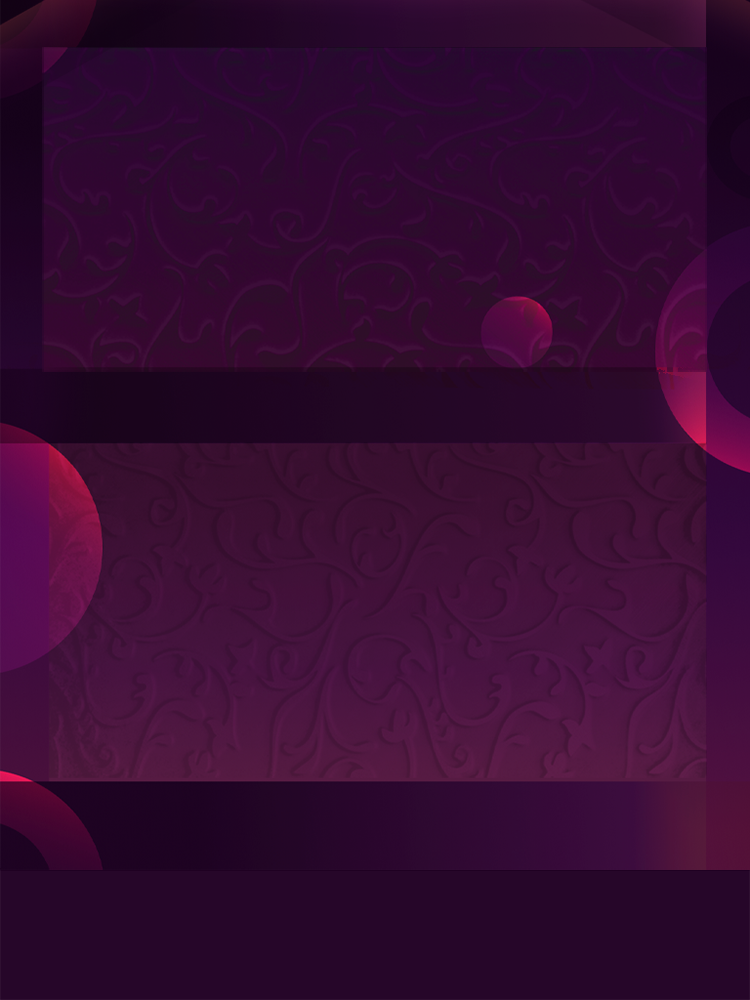
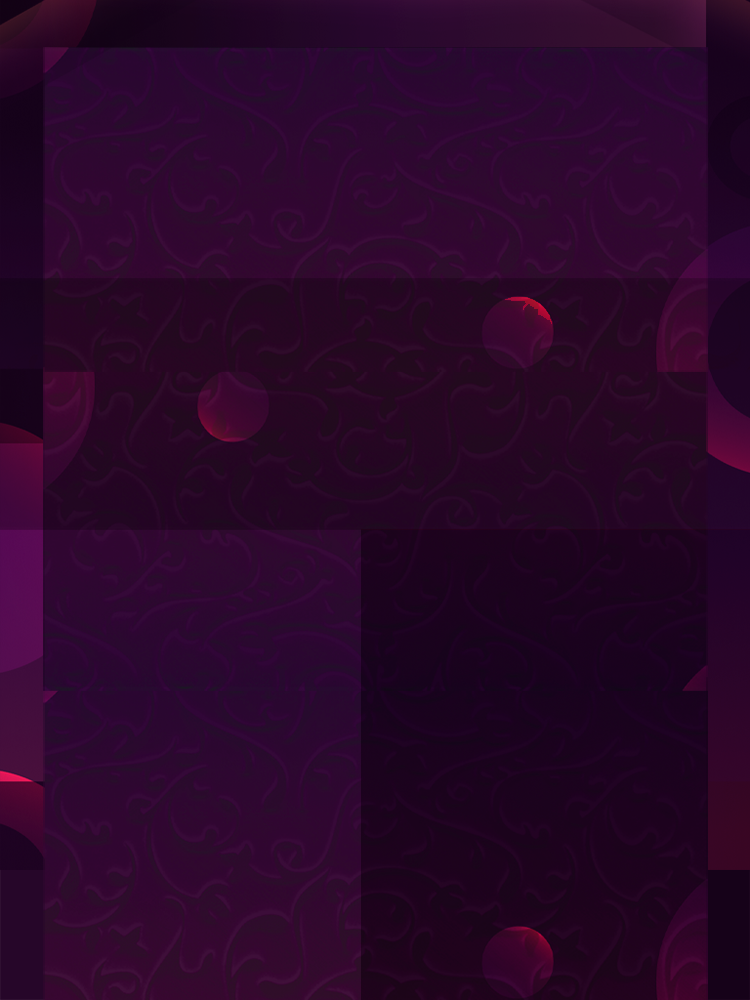
add ins and placement

diff --git a/main.css b/main.css
@@ -12,10 +12,14 @@
 /* how the page wrapper will appear on mobile */
 .page-wrapper{
     /* where to change the width of the columns on desktop view */
-    width: min(100% - 3rem, 150ch);
+    width: min(100% - 3rem, 95ch);
     margin-inline: auto;
 }
 /* how the page wrapper appears on desktop */
+
+@media (prefers-reduced-motion: reduce) { ,::before, *::after 
+    { animation: none !important; 
+     transition: none !important; } }
 
 @media only screen and (min-width:700px){
 .page-wrapper{
@@ -25,11 +29,13 @@ grid-template-columns: 0.5fr 0.5fr;
 grid-template-rows: auto;
 grid-template-areas: 
 
-    "t t t t t t "
-    ". h h h h h "
-    "v v . . . . "
-    " a a . . . .";
+    "t t t t t"
+    "v v v . ."
+    ". h h h h"
+    ". . . . ."
+    " a a . . .";
 }
+
 
 #history {
 grid-area: h;
@@ -47,6 +53,7 @@ color: #a83285dc;
 #alphabet {
 grid-area: a;
 color: rgb(214, 90, 121);
+text-align: left;
 }
 
 #texture{

diff --git a/index.html b/index.html
@@ -2,12 +2,16 @@
 <html lang="en">
   
 <head>
+  <meta name="viewport" content="width=device-width, initial-scale=1.0">
+<a href="#" class="first" aria-label=“download Texturina font" "class="first">Download</a>
+
     <meta charset="UTF-8">
     <meta http-equiv="X-UA-Compatible" content="IE=edge">
     <meta name="viewport" content="width=device-width, initial-scale=1.0">
     <link rel="stylesheet" href="main.css">
     <link rel="stylesheet" href="navigation.css">
     <title>Forma - Variable Font </title>
+  
 </head>
 <body>
     <header>

diff --git a/navigation.css b/navigation.css
@@ -167,5 +167,25 @@
       transform: scale(1,1);
     }
   }
-  
+  /* Resetting default button styles */
+a{display: inline-block;
+    text-decoration: none;
+    border: none;
+    outline: none;
+    cursor: pointer;
+    padding: 20px 20px;
+    border-radius: 10px;
+    font-size: 16px;
+    font-family:Texturina
+}
+
+/* Basic button styles */
+.first {
+    background-color: #ff00f7;
+    color: #fff;
+}
+}
+
+.first:hover {
+    background-color: #380436;
   
